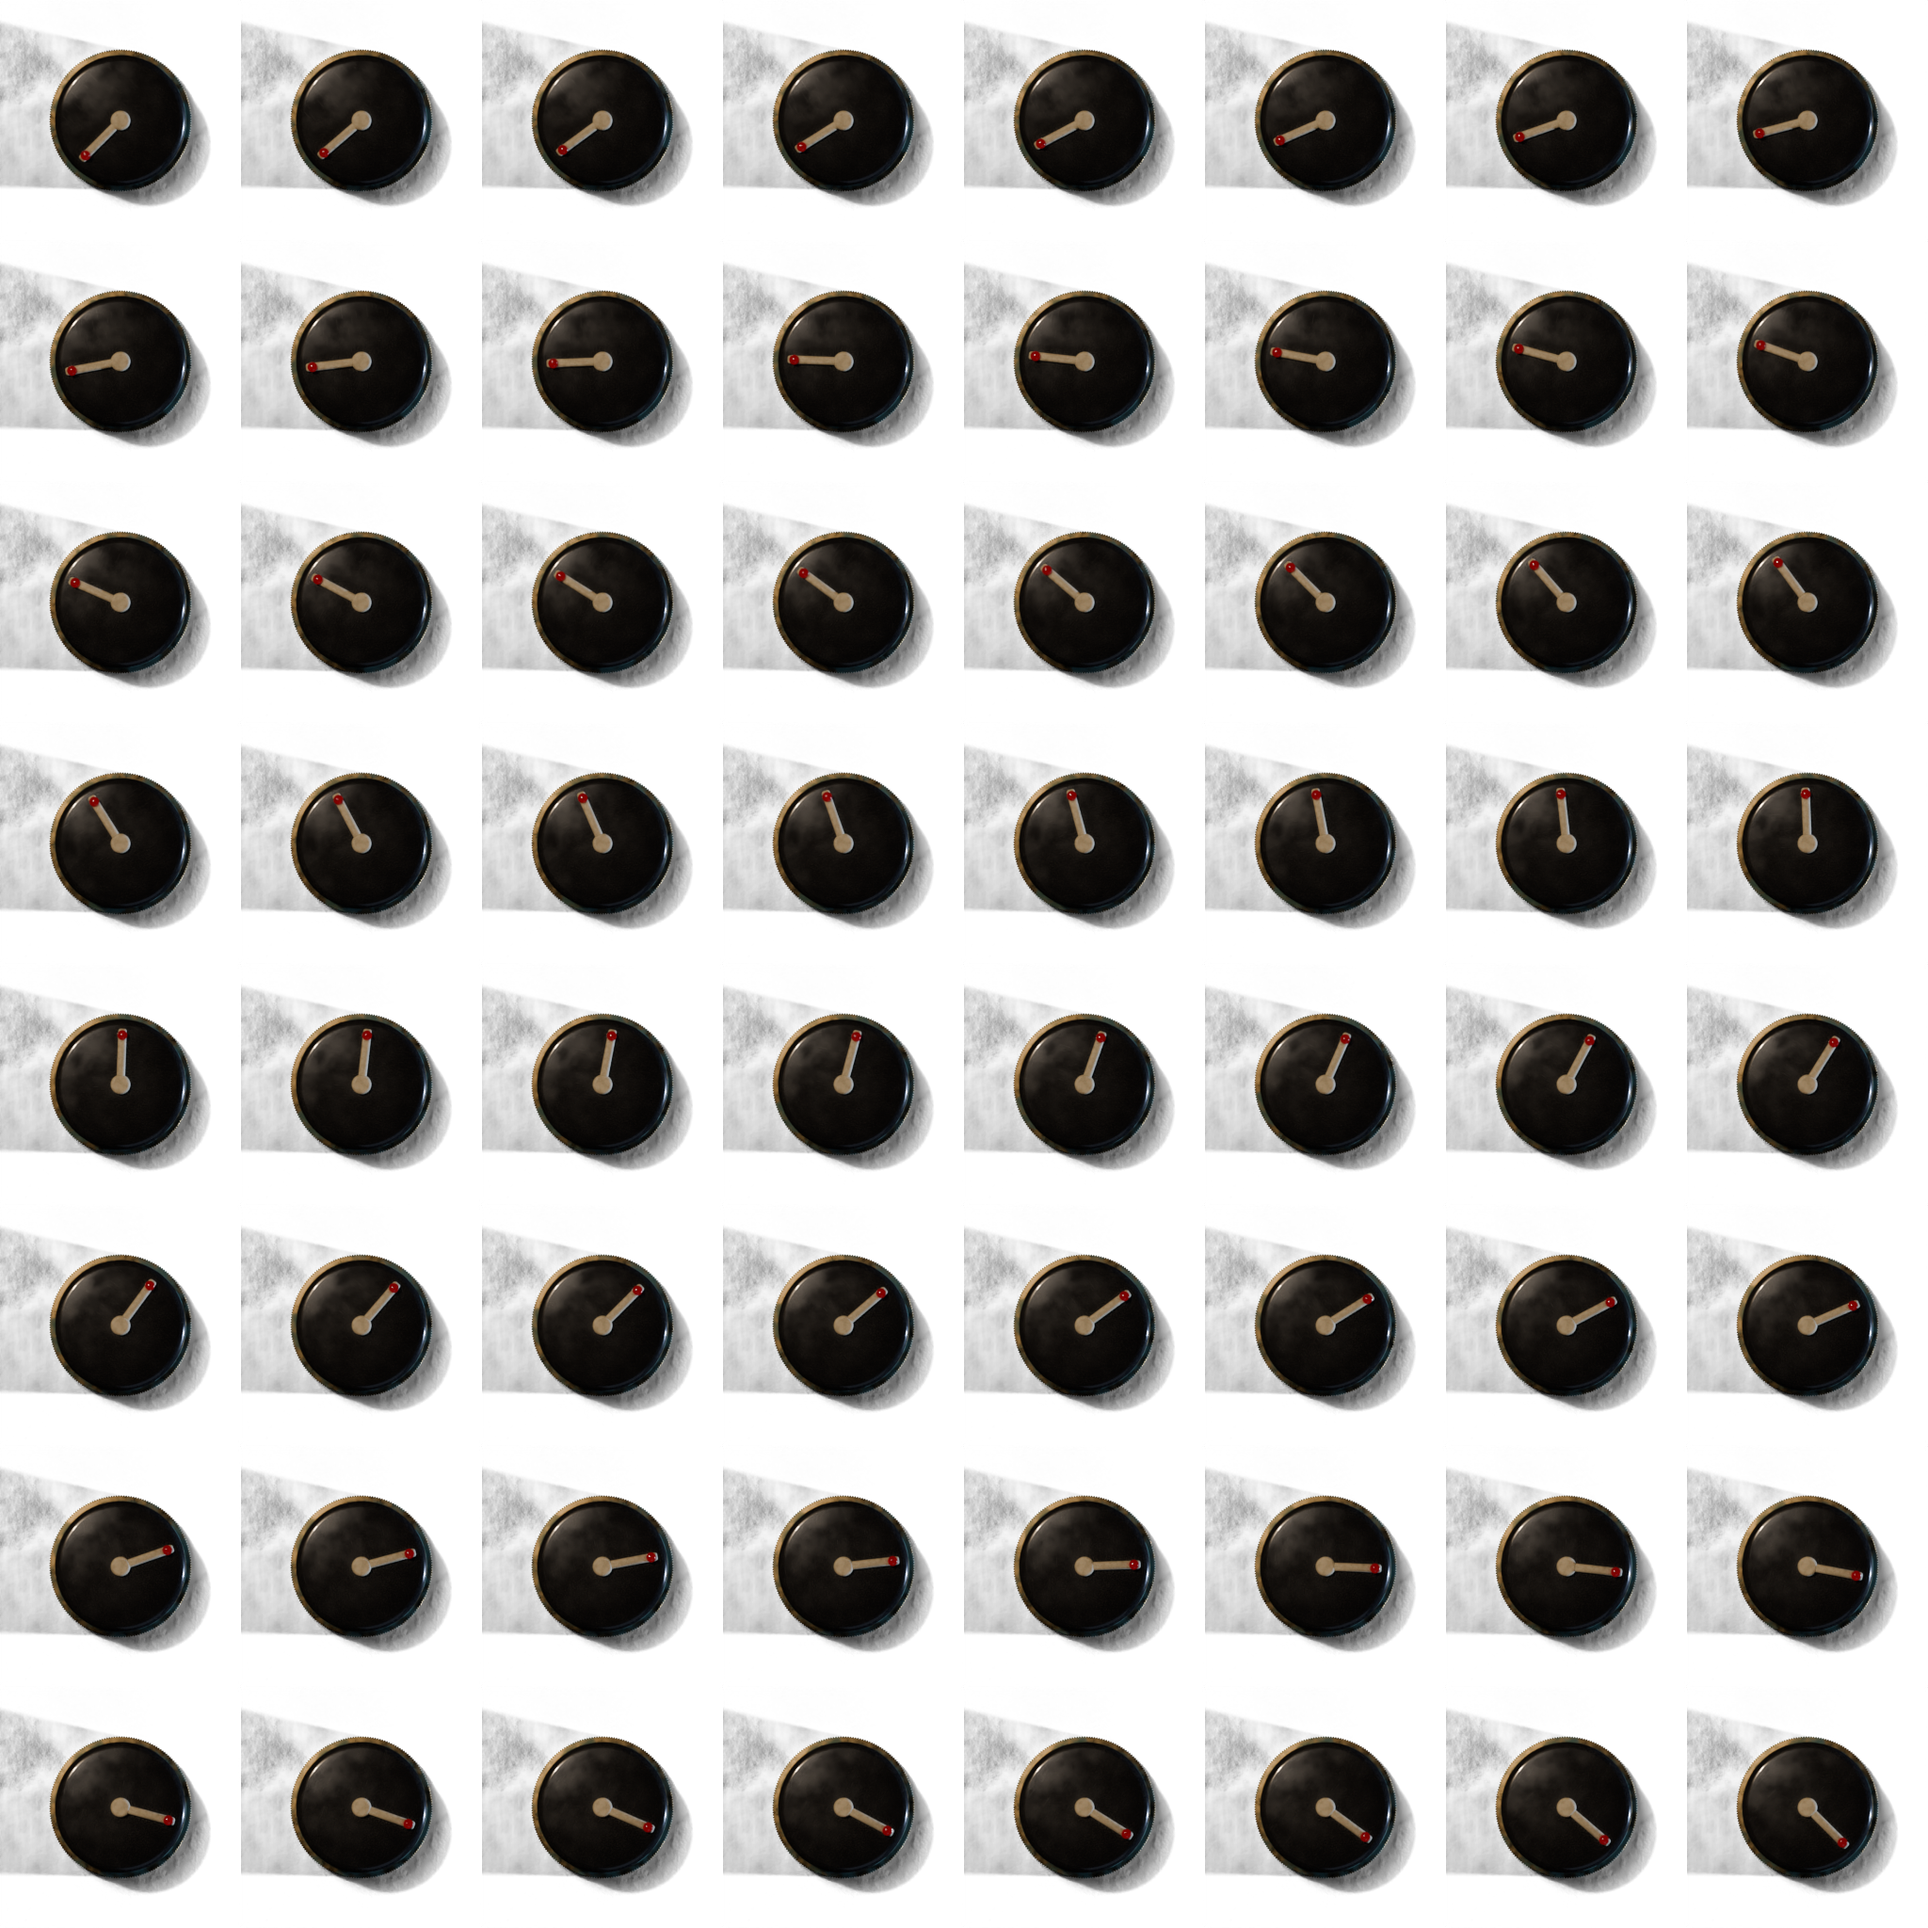
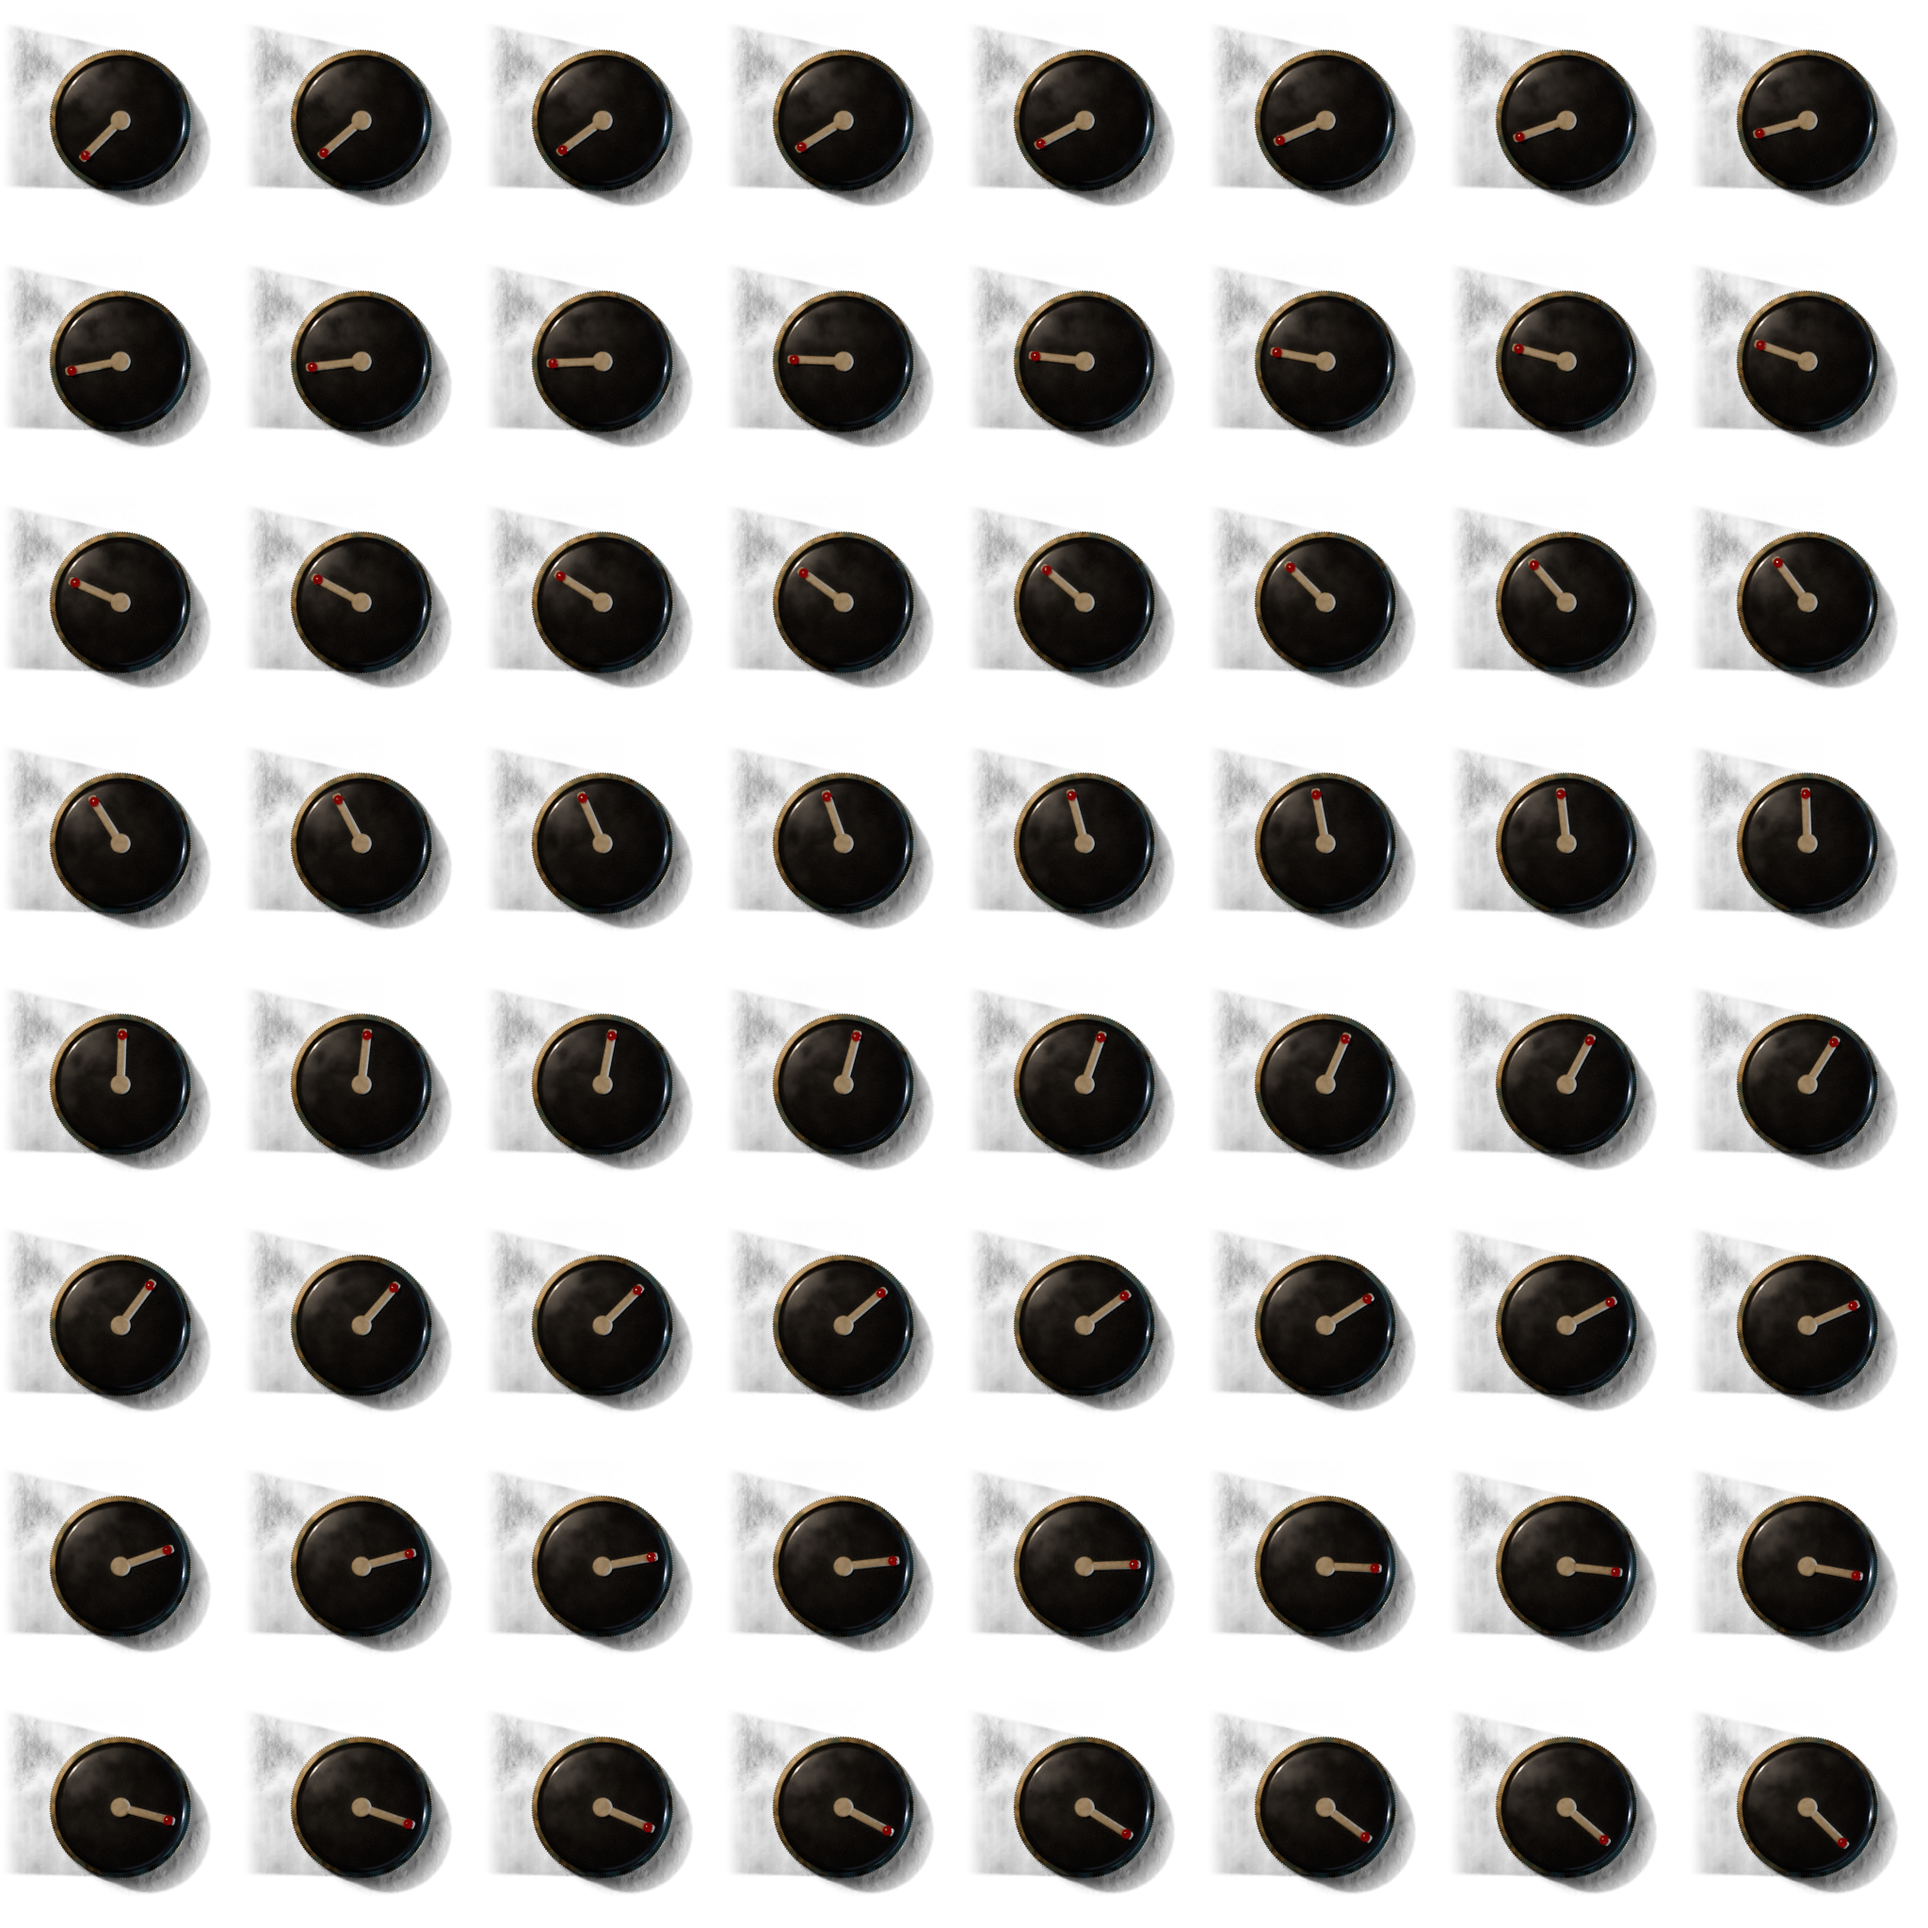
art: knob filmstrip - soft alpha fade at frame borders (no clipped moon shadow); script: moon rim casts no shadow in filmstrip mode

diff --git a/assets3d/scripts/knob_test.py b/assets3d/scripts/knob_test.py
@@ -478,6 +478,9 @@ else:
     import json
     import numpy as np
     panel.is_shadow_catcher = True
+    for ob in scene.objects:                 # the low moon rim keeps its highlights but casts no long
+        if ob.type == "LIGHT" and ob.name == "MoonRim":   # shadow that would run off the frame
+            ob.data.use_shadow = False
     scene.render.film_transparent = True
     scene.render.image_settings.color_mode = "RGBA"
     n, cols, size = args.frames, args.cols, args.res
@@ -497,6 +500,10 @@ else:
         img.pixels.foreach_get(px)
         bpy.data.images.remove(img)
         px = px.reshape(size, size, 4)                    # Blender rows start at the bottom
+        d = np.minimum(np.arange(size), size - 1 - np.arange(size)).astype(np.float32)
+        t = np.clip(d / 28.0, 0.0, 1.0)
+        fade = t * t * (3.0 - 2.0 * t)
+        px[:, :, 3] *= np.minimum.outer(fade, fade)      # soft alpha fade at the frame borders
         r, c = k // cols, k % cols
         y0 = (rows - 1 - r) * size                         # first frame ends up top-left in the PNG
         sheet[y0:y0 + size, c * size:(c + 1) * size] = px
@@ -510,7 +517,7 @@ else:
     out_img.save()
     meta = {"frames": n, "cols": cols, "rows": rows, "frame_size": size, "order": "row-major, top-left first",
             "values": [round(v, 6) for v in values], "angle_min_deg": -135.0, "angle_max_deg": 135.0,
-            "background": "transparent, with contact shadow"}
+            "background": "transparent, with contact shadow", "edge_feather_px": 28}
     with open(os.path.join(args.out, tag + ".json"), "w") as f:
         json.dump(meta, f, indent=2)
     print("[knob_test] wrote", out_img.filepath_raw)
